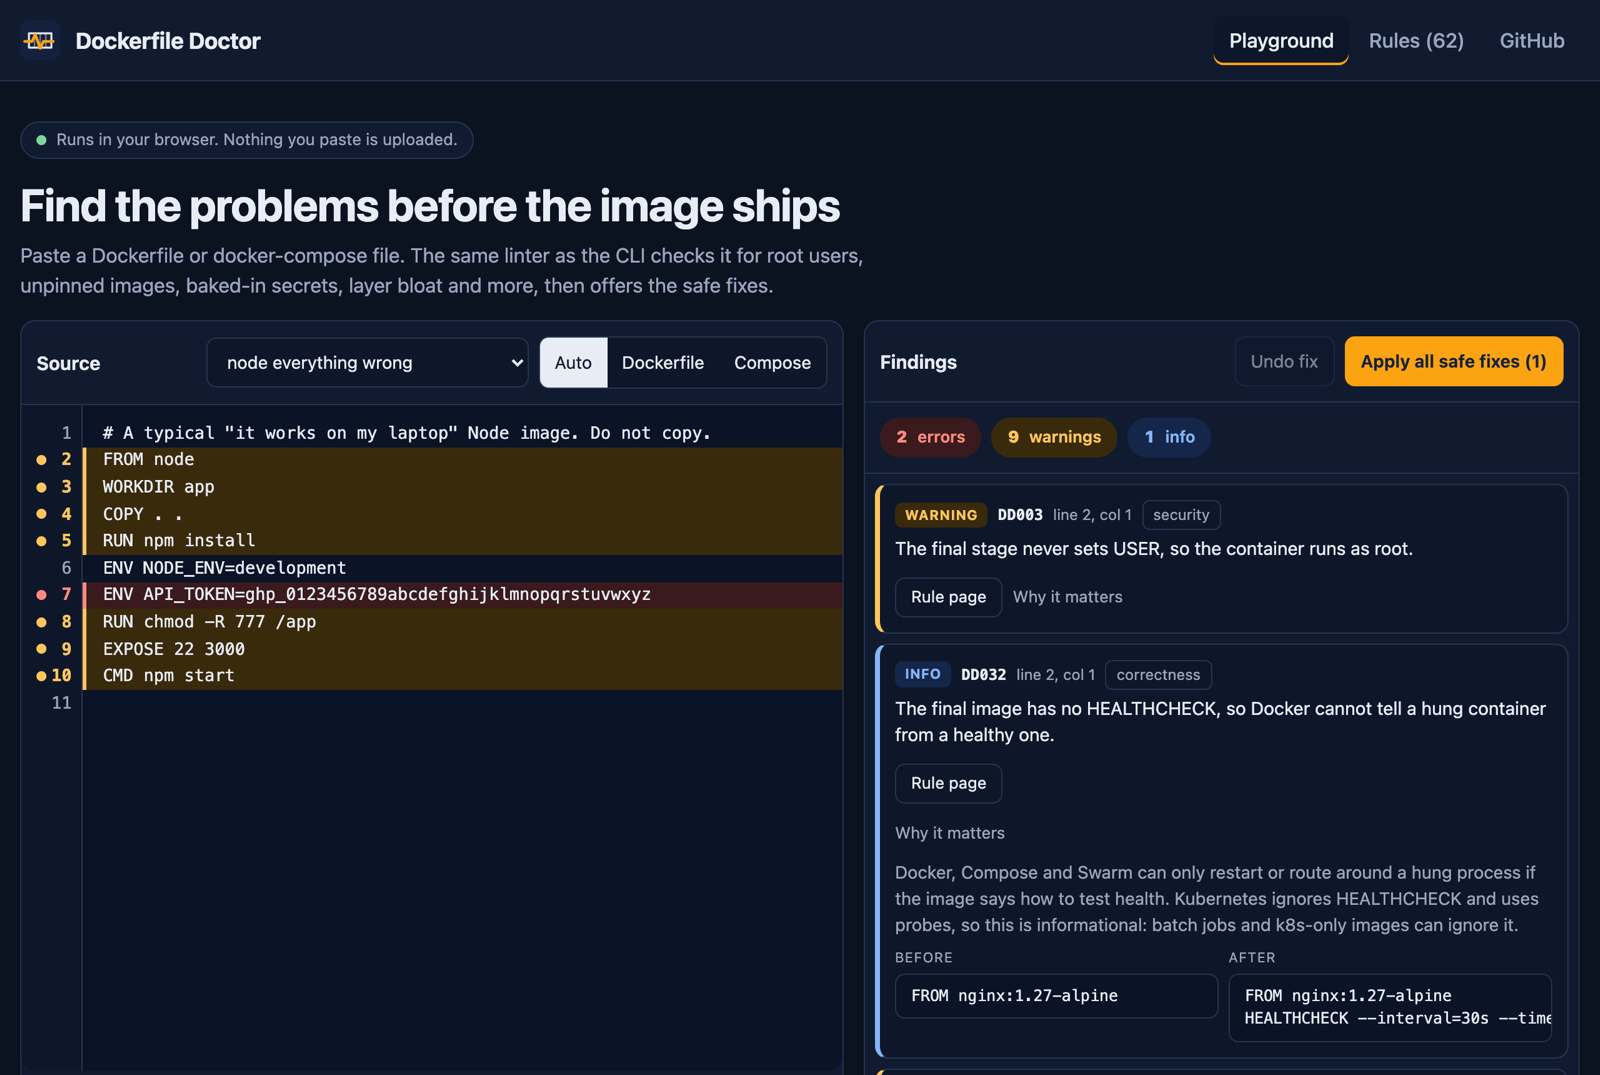
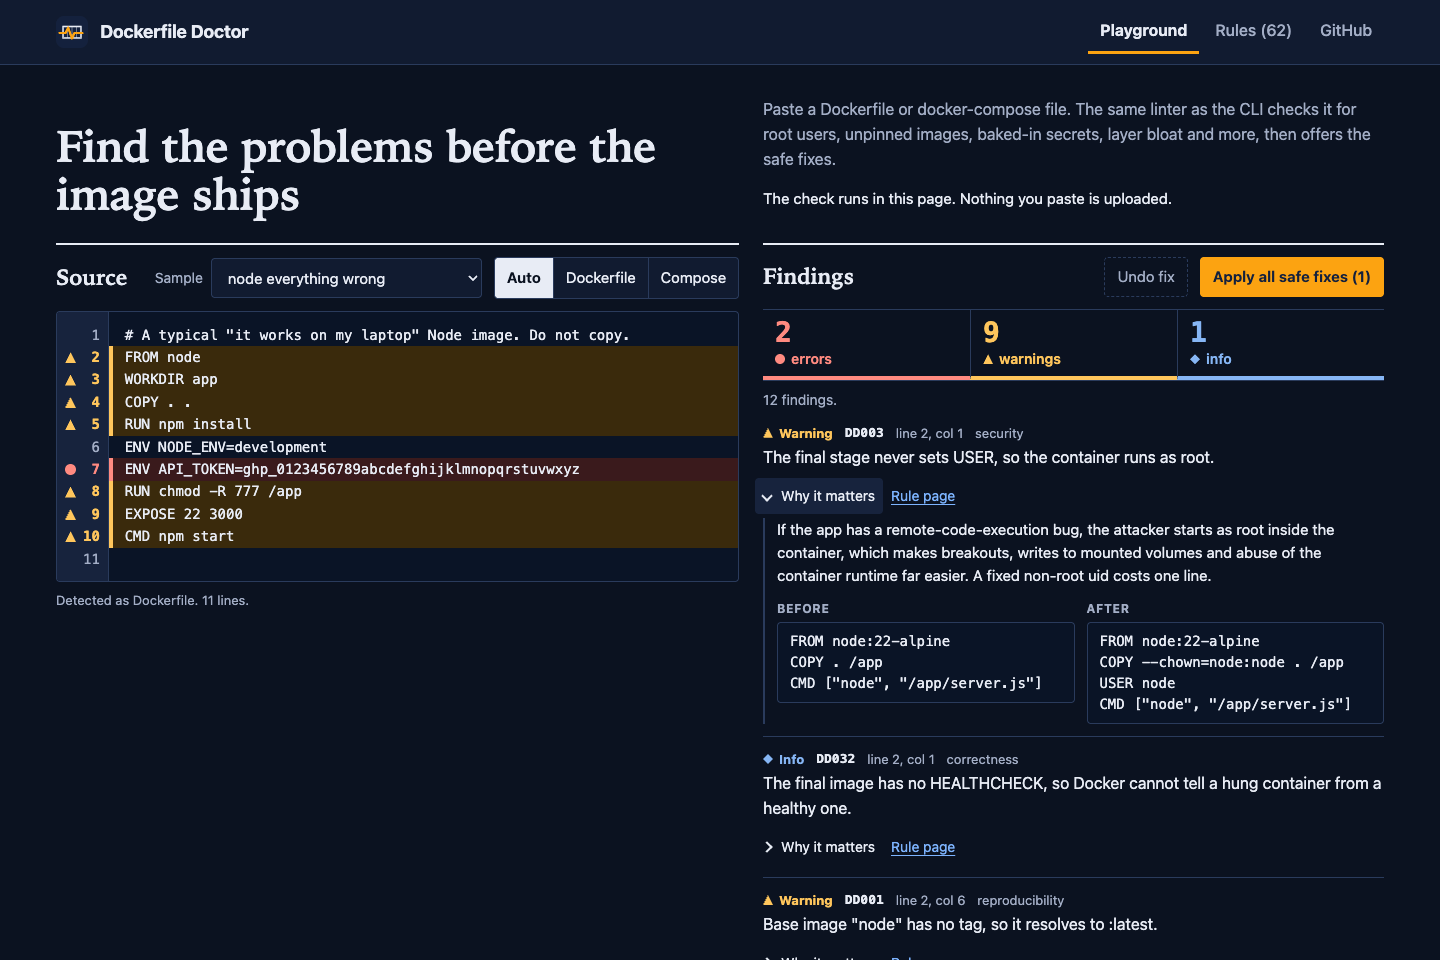
Refresh playground screenshots, add playground design notes

Changed region(s): [[0.0, 0.0938, 1.0, 1.0], [0.75, 0.0312, 0.9688, 0.0625], [0.0, 0.0312, 0.1875, 0.0625]]

diff --git a/README.md b/README.md
@@ -157,6 +157,15 @@ flowchart LR
 
 The core (`src/core`, `src/rules`) has no Node-specific imports, so the same code runs in the CLI and, bundled with esbuild, in the browser playground. Everything is expressed as character ranges into the original text, which is what makes carets, SARIF regions and `--fix` edits line up exactly, even across continuation lines. Key decisions are written up in [docs/CASE-STUDY.md](docs/CASE-STUDY.md).
 
+## Playground design notes
+
+- Severity is a shape and a word (circle for error, triangle for warning, diamond for info), never colour alone, in the findings list and in the source gutter.
+- The severity counts are toggle buttons (`aria-pressed`) that filter the list. "Why it matters" is a real button with `aria-expanded` and `aria-controls`; "Rule page" is an underlined link.
+- Clicking a finding selects its range in the source and outlines the line. Applying fixes, undoing them, loading a sample and switching file type are announced in a live region, and focus moves to a control that still exists.
+- Undo covers fixes only. Editing the source by hand clears it, so it can never overwrite what you typed.
+- A compose file with no top-level `services:` key says nothing was checked instead of reporting a clean result.
+- The rule catalogue filters are labelled checkboxes in fieldsets. Text is 12px at the smallest, system fonts only, no network requests.
+
 ## Testing
 
 ```bash
